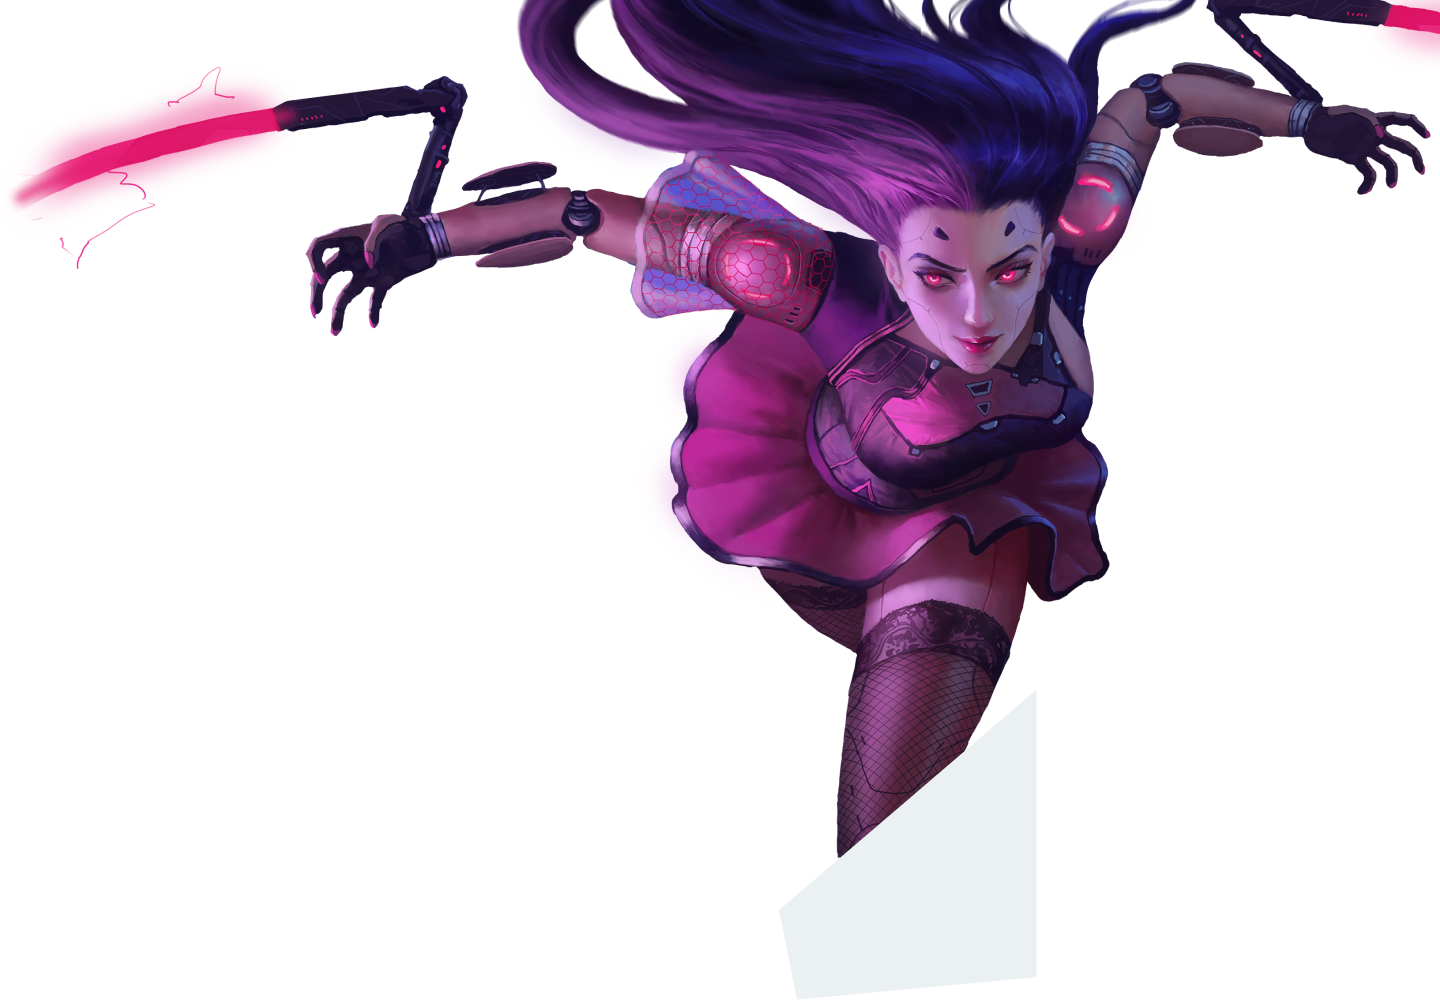
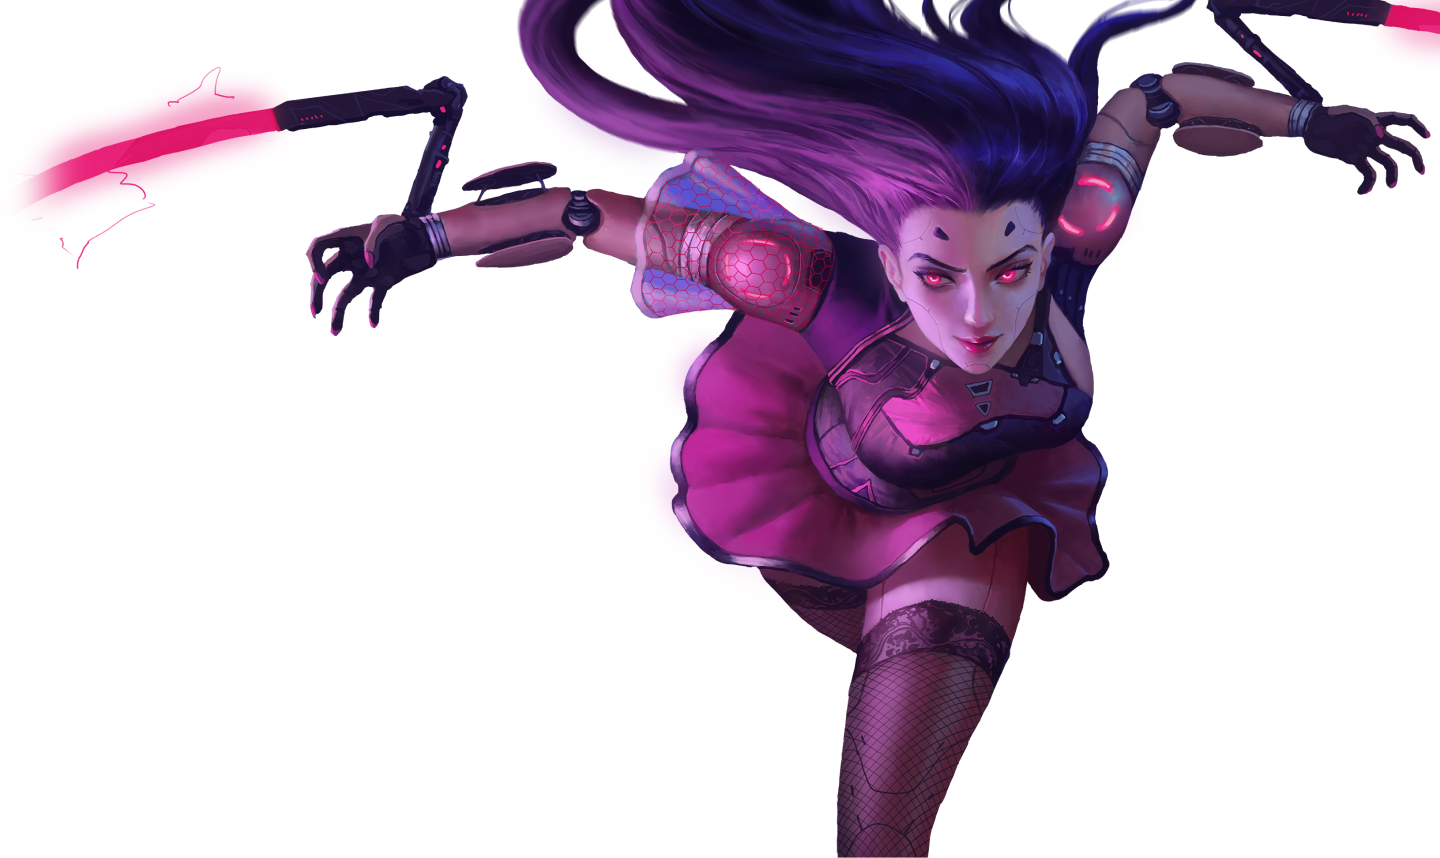
Styling for background images,  responsive. Removed unused lines of code in files.

Changed region(s): [[0.0, 0.0, 1.0, 1.0]]

diff --git a/src/components/HeroGames/HeroGames.scss b/src/components/HeroGames/HeroGames.scss
@@ -25,31 +25,11 @@
       z-index: -2;
       pointer-events: none; // Prevent background from intercepting clicks
 
-      @media (max-width: 768px) {
-        // transform: scale(1.2); // Zoom in for tablet screens
-        // right: -25%;
-        // height: 25rem;
-        // clip-path: polygon(0 0, 100% 0, 100% 40%, 0 100%); // Adjust the percentage values to create the desired slant
+      @include tablet-breakpoint {
+        height: 40rem;
+        clip-path: polygon(0 0, 100% 0, 100% 70%, 0 100%); // Adjust the percentage values to create the desired slant
       }
-  
-      @media (max-width: 480px) {
-        // transform: scale(1.5); // Zoom in more for mobile screens
-        // height: 30rem;
-        // right: 0;
-      }
-
     }
-  
-    // &__overlay {
-    //     position: absolute;
-    //     top: 0;
-    //     left: 0;
-    //     width: 100%;
-    //     height: 70%;
-    //     background-color: rgba(69, 66, 66, 0.8); // Adjust the opacity as needed
-    //     pointer-events: none; // Allows clicks to pass through the overlay
-    //     clip-path: polygon(0 0, 100% 0, 100% 50%, 0 100%); // Adjust the percentage values to create the desired slant
-    // }
 
     &__wrapper {
         display: flex;
@@ -77,23 +57,25 @@
         bottom: 0;
         right: 0;
         max-width: $desktop-width;
-        height: 32rem;
+        height: 28rem;
         position: absolute;
-        right: 15%;
+        right: -30%;
         pointer-events: none; // Prevent background from intercepting clicks
         // margin-top: 5rem;
+        clip-path: polygon(0 0, 100% 0, 100% 82%, 0 100%); // Adjust the percentage values to create the desired slant
+        transform: scale(1.5); // Zoom in more for mobile screens
 
-        @media (max-width: 768px) {
+        @include tablet-breakpoint {
             transform: scale(1.2); // Zoom in for tablet screens
-            right: -25%;
-            height: 32rem;
-          }
-      
-          @media (max-width: 480px) {
-            transform: scale(1.2); // Zoom in more for mobile screens
-            height: 20rem;
-            right: -15%;
-          }
+            right: -20%;
+            height: 38rem;
+        }
+
+        @include desktop-breakpoint {
+            transform: scale(1);
+            right: 10%;
+        }
+
     }
 
     &__content {
@@ -139,6 +121,20 @@
         &__text {
             padding-top: 1rem;
             @include P7-text-style;
+
+            &--mobile {
+                @include tablet-breakpoint{
+                    display: none;
+                }
+            }
+    
+            &--tablet {
+                display: none;
+    
+                @include tablet-breakpoint {
+                    display: inline;
+                }
+            }
         }
     }
 

diff --git a/src/components/HeroGames/HeroGames.jsx b/src/components/HeroGames/HeroGames.jsx
@@ -1,11 +1,8 @@
 import './HeroGames.scss';
 import heroBackground from '../../assets/images/14-hero-background-image.png';
-// import { Link } from 'react-router-dom';
-// import heroOverlay from '../../assets/images/12-hero-rectangle.png';
 import girlImage from '../../assets/images/26047-hero-girl.png';
 import banner from '../../assets/logo/26074-banner.png';
 import swLogo from '../../assets/logo/SW_LOGO.png';
-// import arrowIcon from '../../assets/icons/Vector-button-arrow.png';
 
 const HeroGames = () => {
   return (
@@ -15,9 +12,6 @@ const HeroGames = () => {
       <div className="hero-games__wrapper">
         <img src={girlImage} alt="Hero Girl" className="hero-games__girl-img" />
         <div className="hero-games__content">
-            {/* <h1>SHADOW WAR</h1>
-            <p>Our next-generation 5v5 hybrid action title blending strategic & thrilling PvP combat.</p>
-            <button className="hero-games__button">More About the Game</button> */}
             <div className='hero-games__content__box1'>
                 <img src={banner} alt="Shadow War Banner" className="hero-games__content__banner" />
                 <div className='hero-games__content__title hero-games__content__title1'>SHADOW</div>
@@ -26,8 +20,12 @@ const HeroGames = () => {
                 <div className='hero-games__content__title'>WAR</div>
                 <img src={swLogo} alt="Shadow War Logo" className="hero-games__content__logo" />
             </div>
-            <div className='hero-games__content__text'>
+            <div className='hero-games__content__text hero-games__content__text--mobile'>
                 <p>Our next-generation 5v5 hybrid action title blending strategic & thrilling PvP combat.</p>
+            </div>
+            <div className='hero-games__content__text hero-games__content__text--tablet'>
+                <p>Our next-generation 5v5 hybrid action title</p>
+                <p>blending strategic & thrilling PvP combat.</p>
             </div>
         </div>
         
@@ -38,16 +36,3 @@ const HeroGames = () => {
 };
 
 export default HeroGames;
-
-{/* <section className="games-home-page__actions">
-                <Link className="games-home-page__actions__button" to="/careers">
-                  Check Open Positions <img src={arrowIcon} alt="Right Arrow" className="games-home-page__actions__icon" />
-                </Link>
-                <div></div>
-            </section> */}
-{/* <section className="games-home-page__actions">
-                <NavLink className="games-home-page__actions__button" to="/careers">
-                  Check Open Positions <img src={arrowIcon} alt="Right Arrow" className="games-home-page__actions__icon" />
-                </NavLink>
-                <div></div>
-            </section> */}

diff --git a/src/pages/GamesHomePage/GamesHomePage.scss b/src/pages/GamesHomePage/GamesHomePage.scss
@@ -10,18 +10,18 @@
     flex-direction: column;
     padding: $m-padding-sides;
     width: 100%;
-    margin-top: -20rem;
+    margin-top: -17rem;
 
     @include tablet-breakpoint {
         align-items: center;
         padding: 1.5rem 2rem;
-        margin-top: -10rem;
+        margin-top: -14rem;
     }
 
     @include desktop-breakpoint {
       padding: 2rem 0 0 0;
       @include desktop-margins;
-      margin-top: -18rem;
+      margin-top: -14rem;
     }
 
     
@@ -175,7 +175,6 @@
     &__text {
         @include P2-pageheader-text-style;
         opacity: 40%;
-        
     }
   }
 
@@ -193,9 +192,6 @@
         background-color: $blue-button-hover; 
       }
 
-      &--game {
-        margin-left: -2rem;
-      }
     }
 
     &__icon {

diff --git a/src/pages/GamesHomePage/GamesHomePage.jsx b/src/pages/GamesHomePage/GamesHomePage.jsx
@@ -1,8 +1,3 @@
-// import React, { useEffect, useState } from "react";
-// import { useNavigate } from "react-router-dom";
-// import Search from "../../components/Search/Search.jsx";
-// import Button from "../../components/Button/Button.jsx";
-// import React from "react";
 import { Link } from "react-router-dom";
 import icon11 from "../../assets/icons/Icon-hover-1.1.png";
 import icon12 from "../../assets/icons/Icon-hover-1.2.png";
